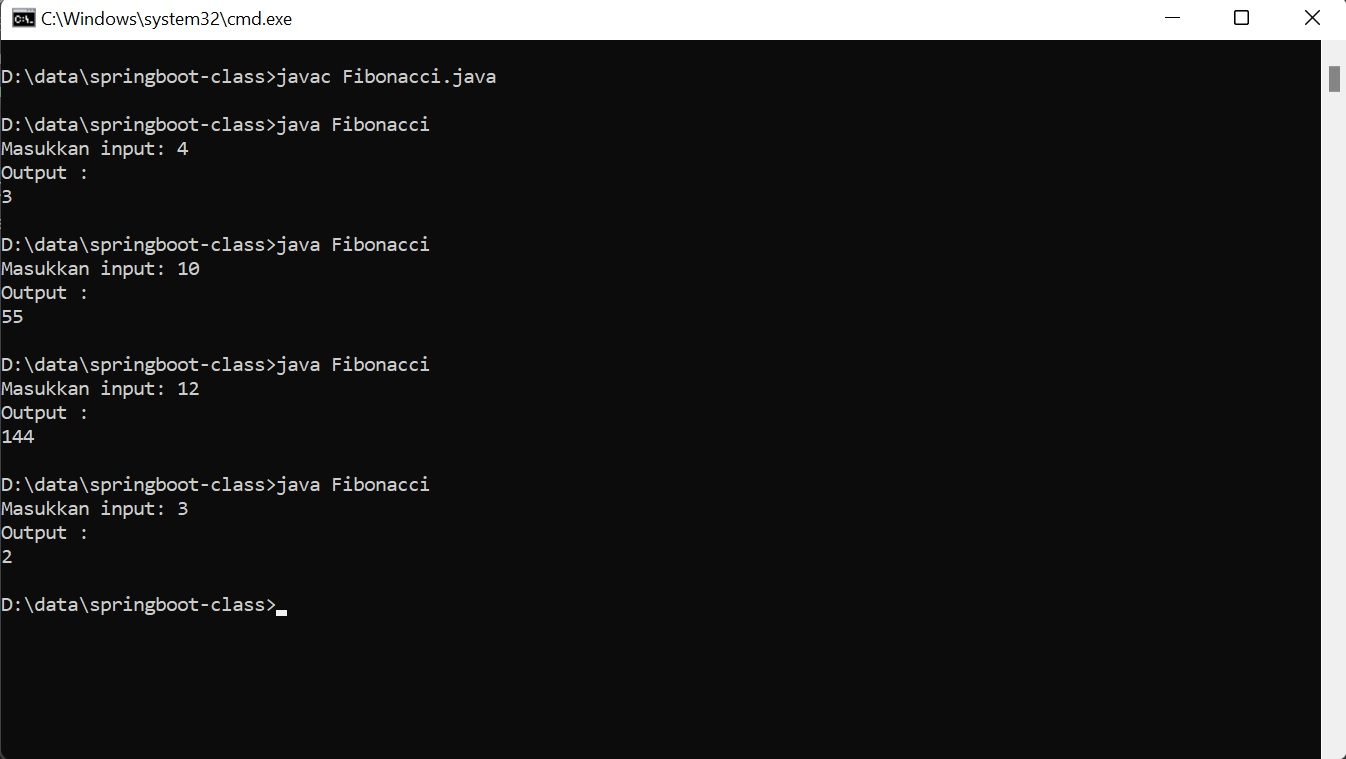
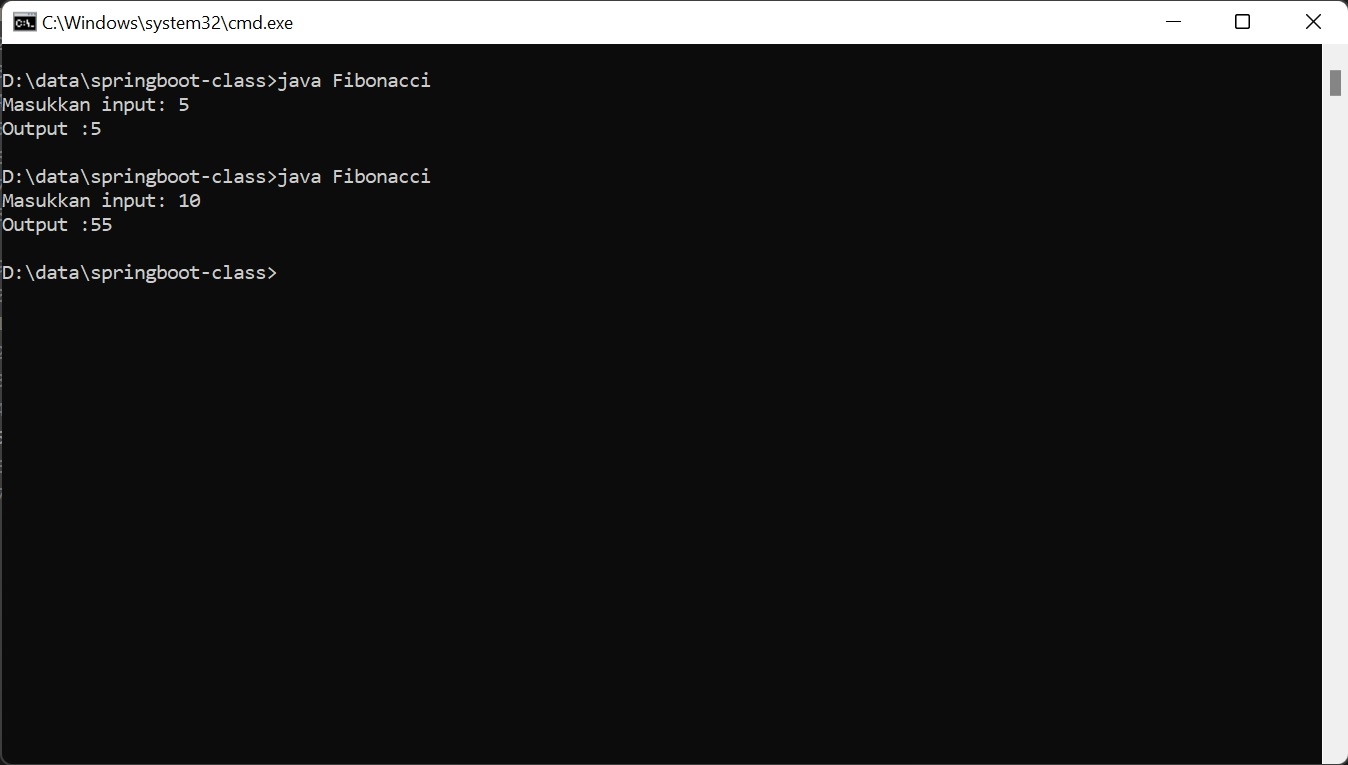
day-7/5-fibonacci-top-down

diff --git a/Fibonacci.java b/Fibonacci.java
@@ -12,7 +12,6 @@ public class Fibonacci {
         int intGiven = input.nextInt();
         input.close();
 
-        System.out.println("Output :");
-        System.out.println(getFibbonaci(intGiven));
+        System.out.println("Output :" + getFibbonaci(intGiven));
     }    
 }   

diff --git a/README.md b/README.md
@@ -1,3 +1,3 @@
-## Fibonacci 
+## Fibonacci Top-down
 
 ![screenshot](screenshot.jpg)
